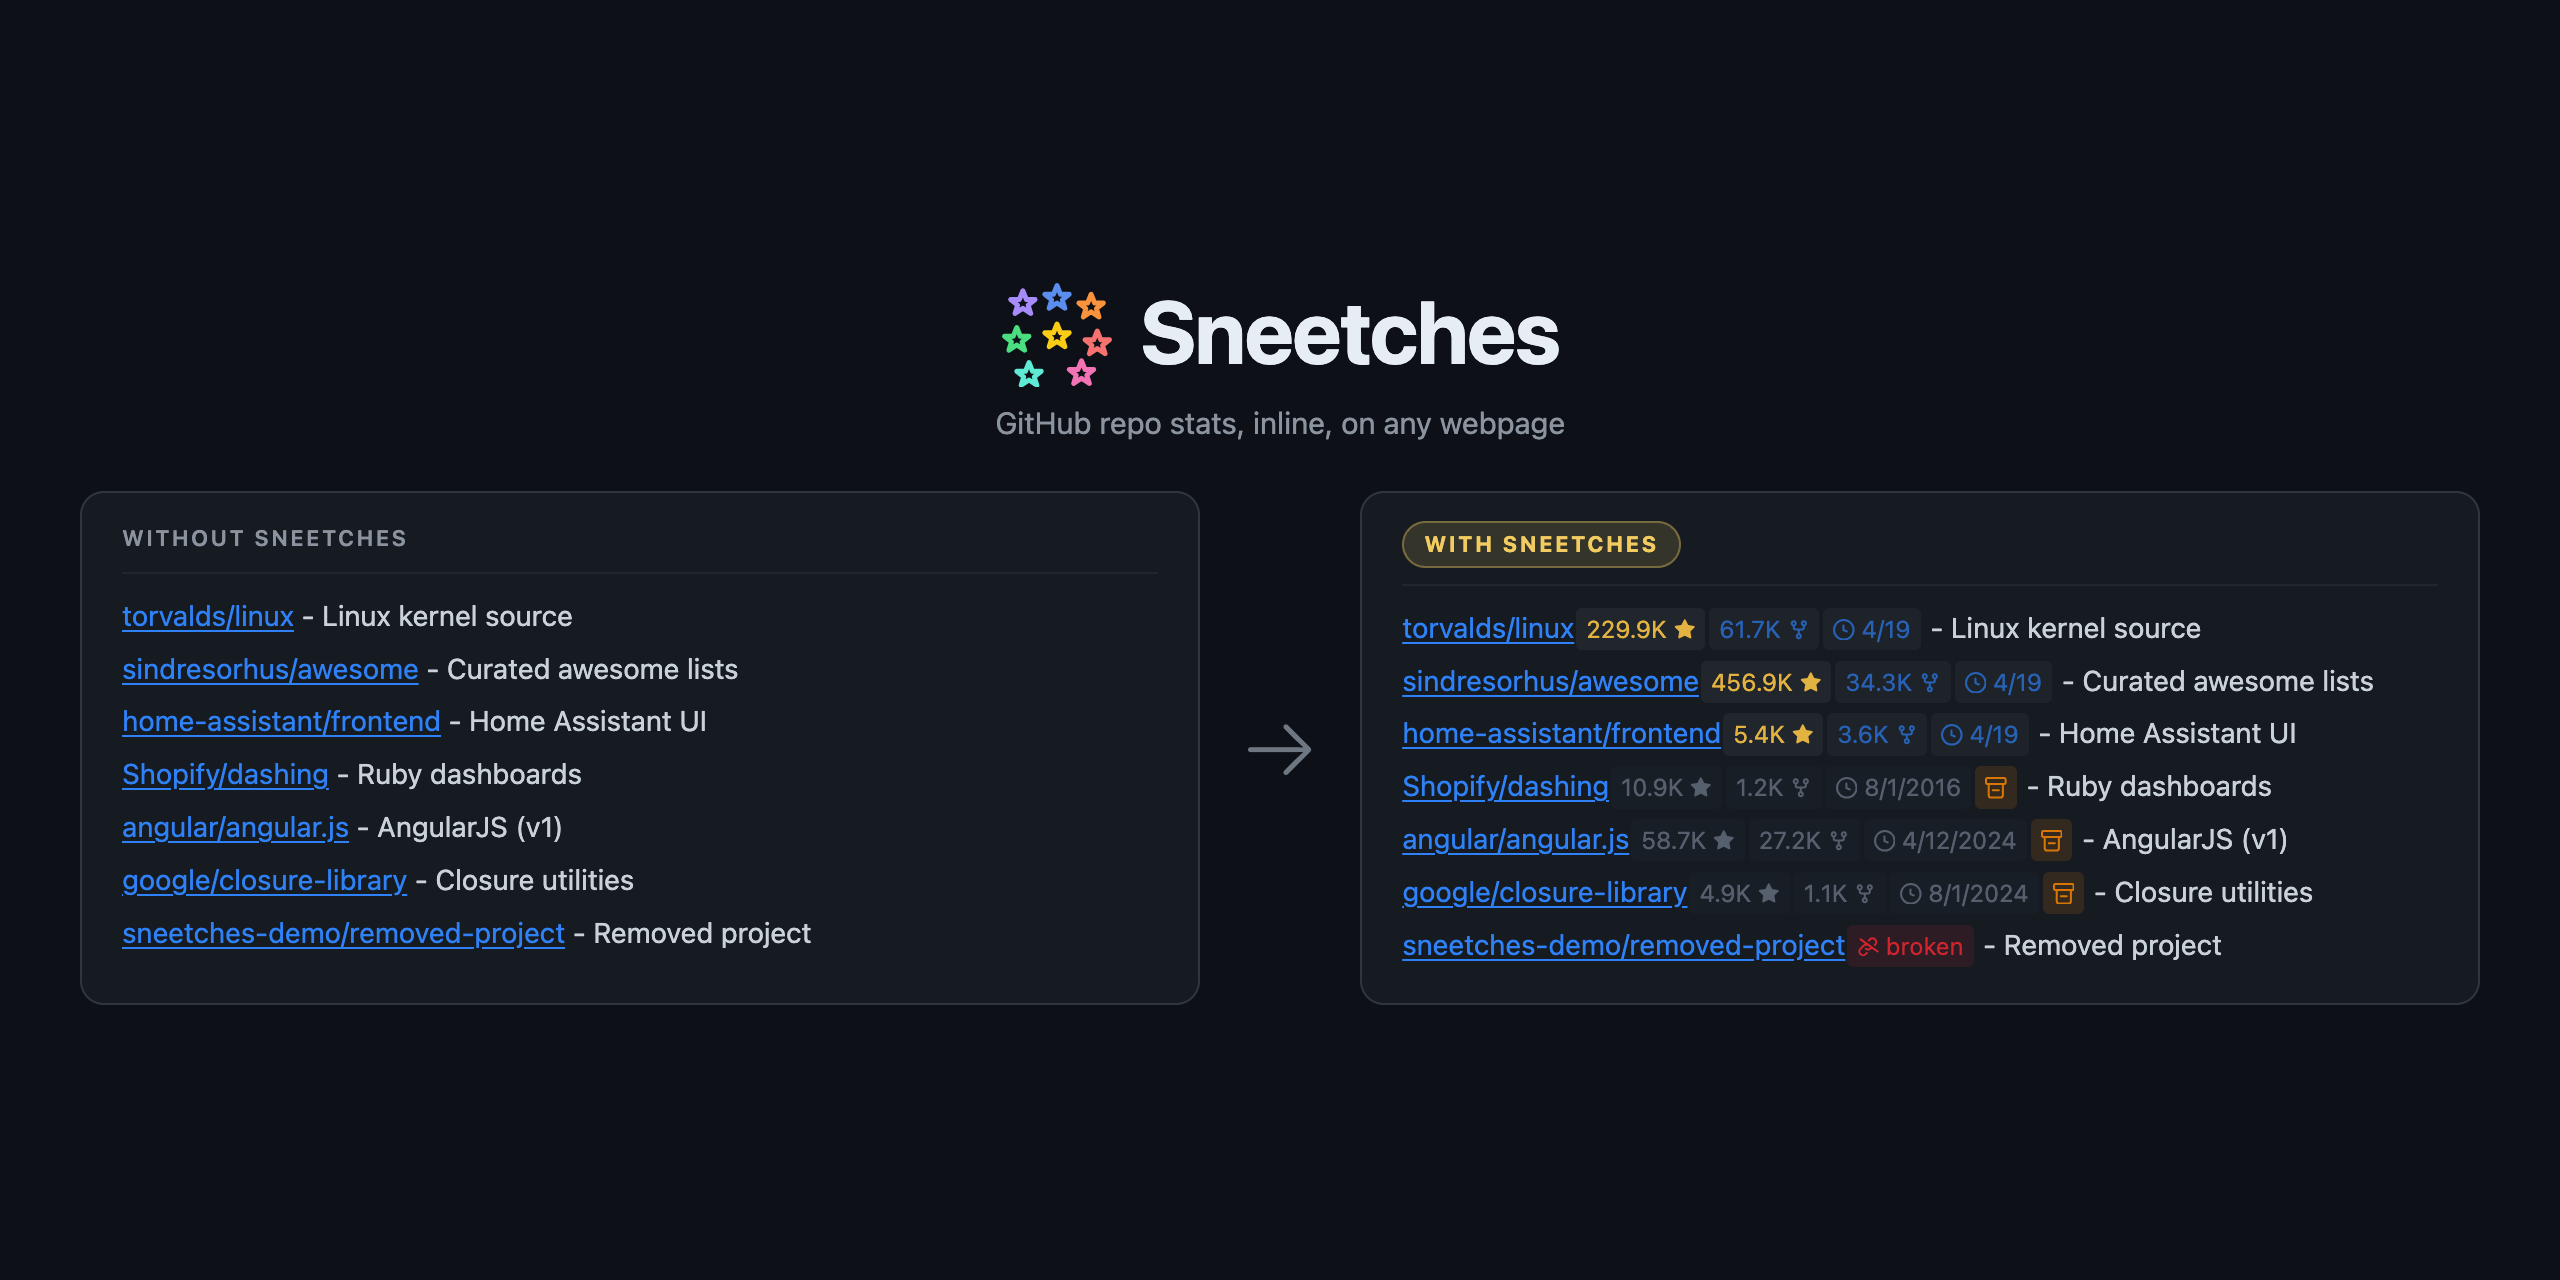
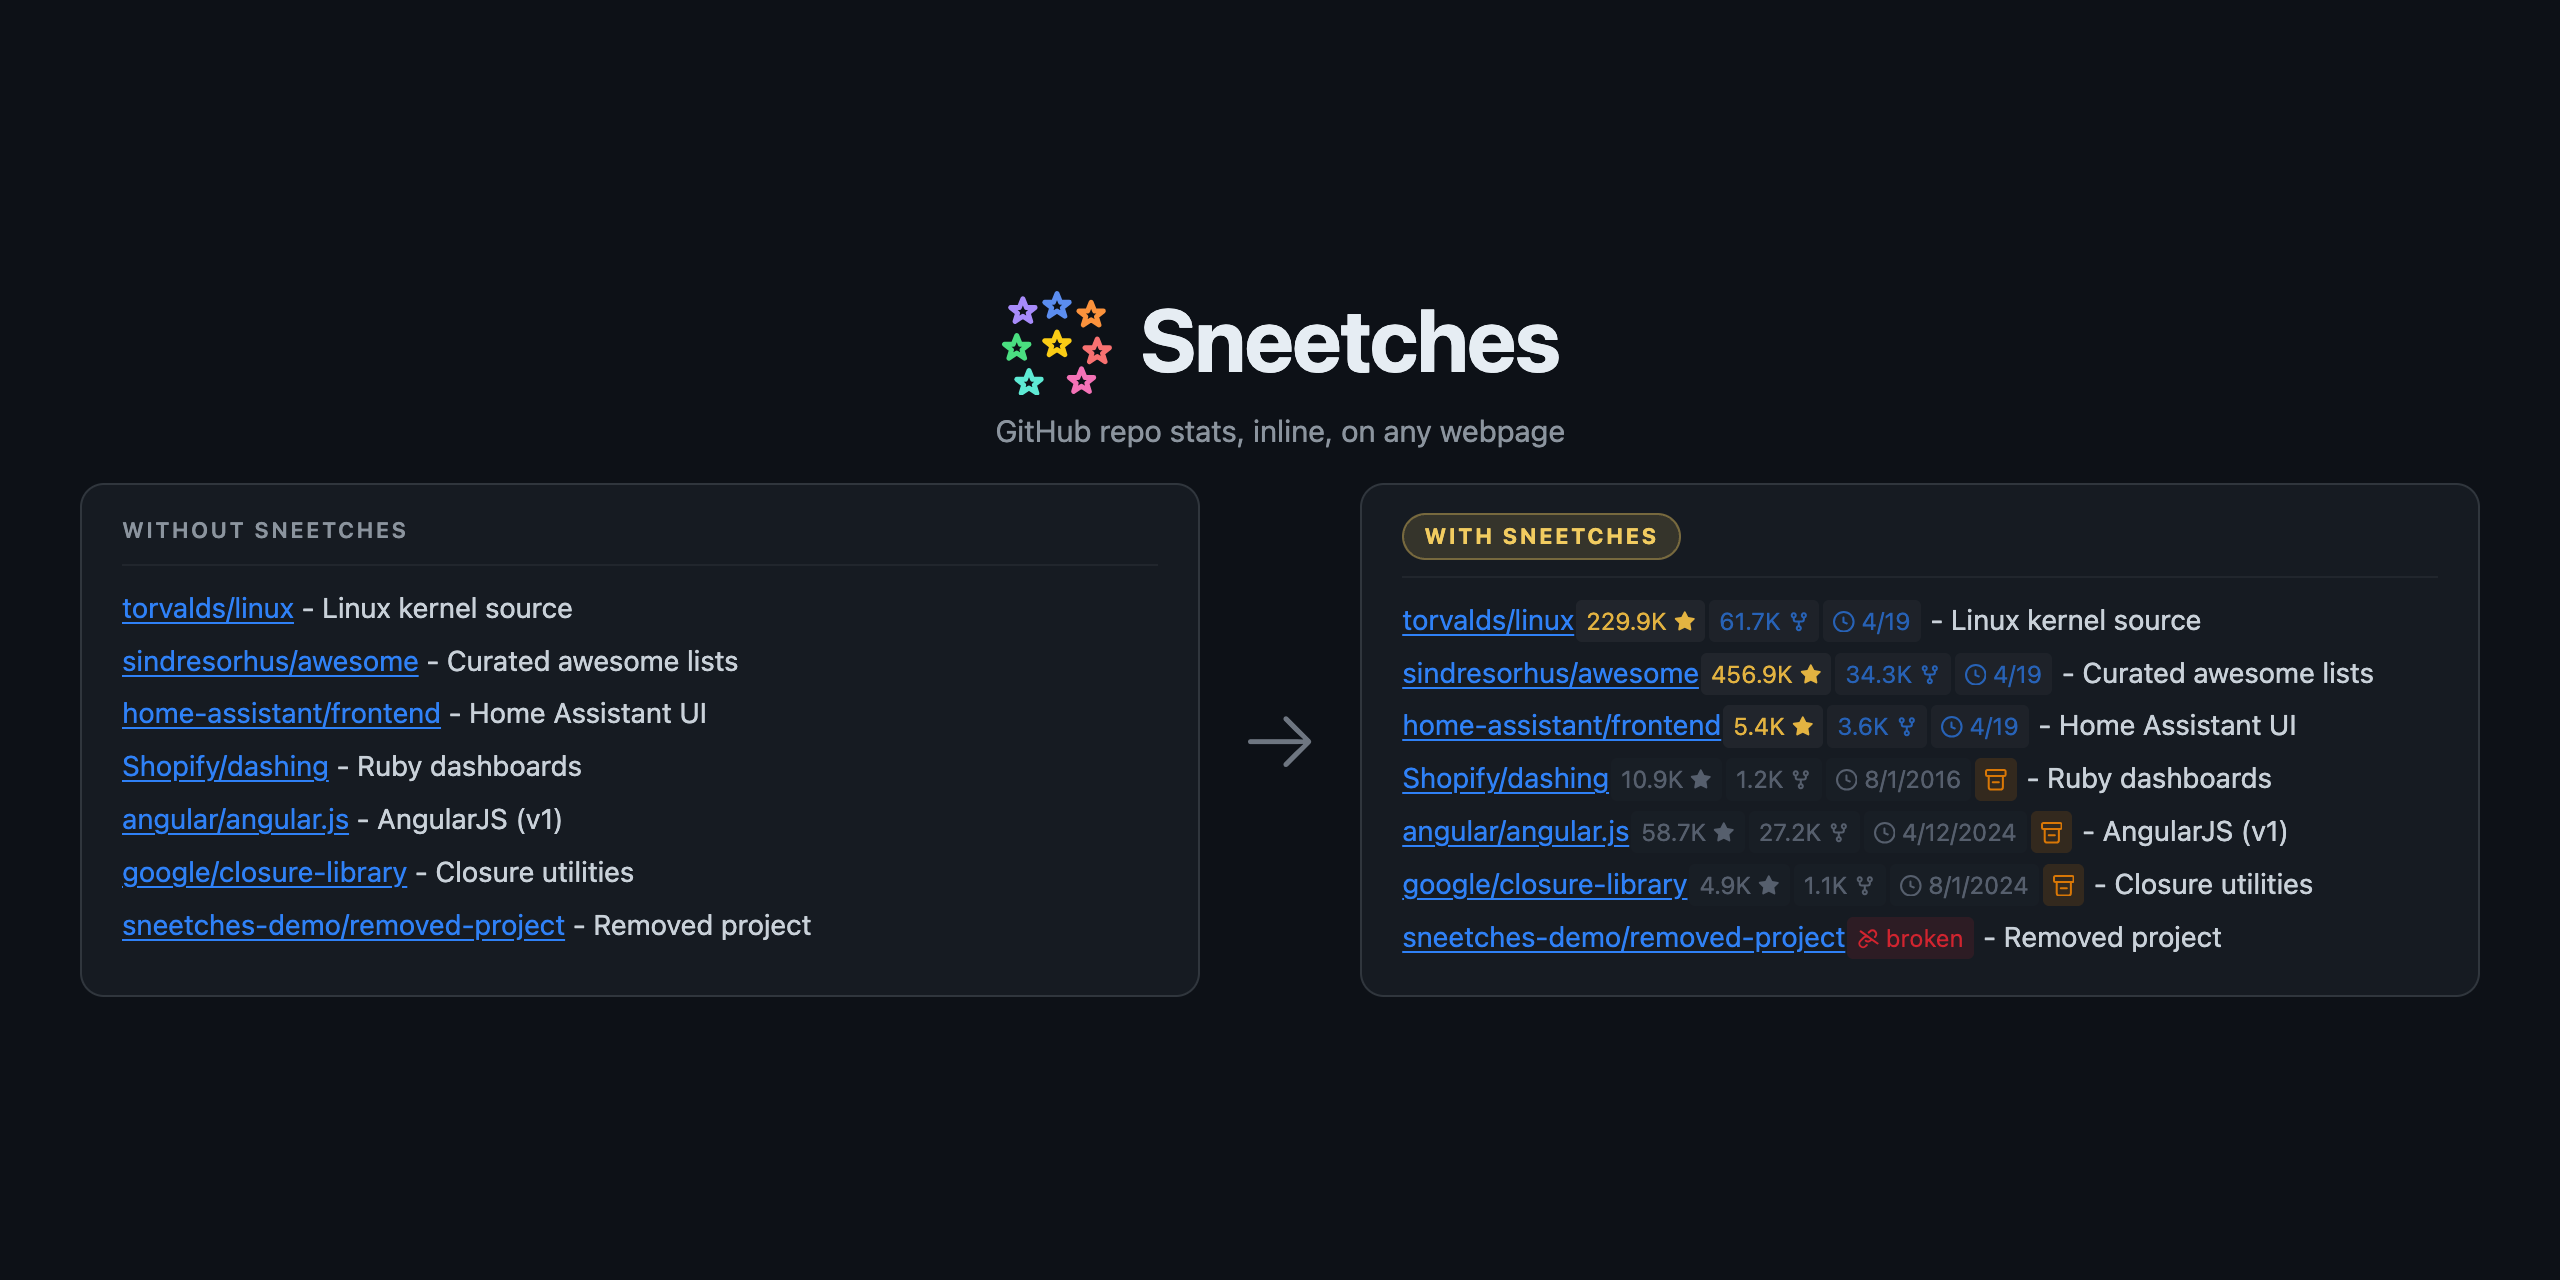
1.2.0: render popup from actual options.html + tighten social-preview padding
Popup:
- Drop the hand-captured popup-raw.png (Chrome theme painted a tint on
  the popup window chrome, leaking into the screenshot)
- capturePopup() in capture.mjs now navigates to
  chrome-extension://<ID>/options.html after injecting rich state
  (PAT, show toggles, filled star, starred, advanced_open, rate_limit
  5000/4886, 1127 fake cache entries) so the UI renders realistic
  numbers. Then crops to body bounds
- No backdrop — output is just the popup itself (648x748 @ DSF=2),
  theme-free since an extension tab doesn't have the popup-window
  frame a toolbar click produces
- scripts/screenshots/popup.html + popup-raw.png removed

Social-preview:
- Reduced body vertical padding 28px → 14px and brand-stack margin
  22px → 14px; content sits more firmly in the 2560x1280 frame with
  less wasted empty space top/bottom

diff --git a/scripts/screenshots/social-preview.html b/scripts/screenshots/social-preview.html
@@ -19,7 +19,7 @@
     flex-direction: column;
     align-items: center;
     justify-content: center;
-    padding: 28px 40px;
+    padding: 14px 40px;
     box-sizing: border-box;
   }
   .brand-stack {
@@ -27,7 +27,7 @@
     flex-direction: column;
     align-items: center;
     gap: 6px;
-    margin-bottom: 22px;
+    margin-bottom: 14px;
   }
   .brand {
     display: flex;
